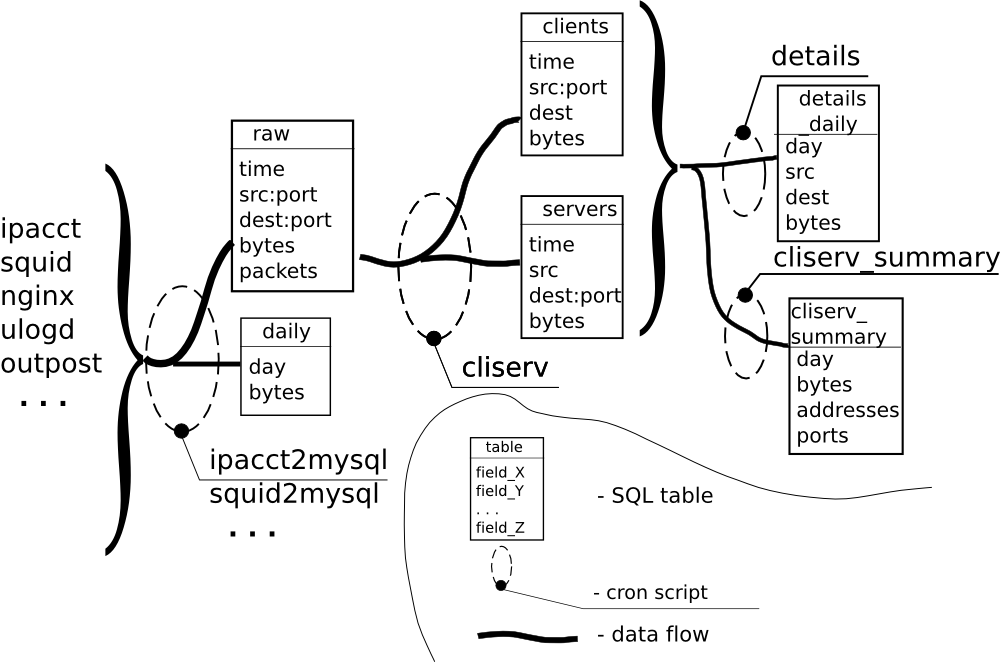
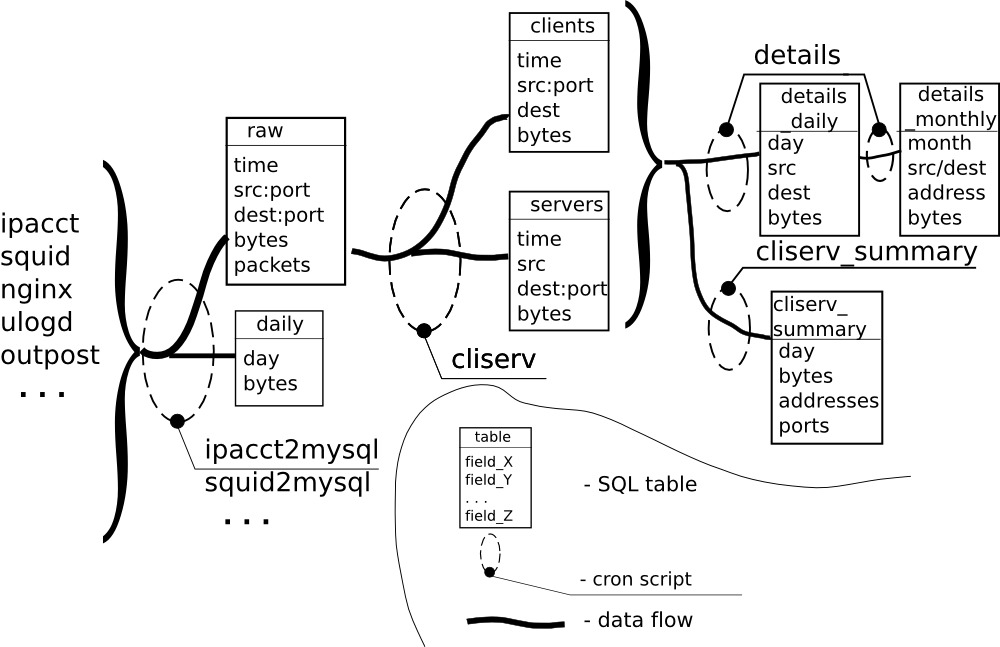
docs

diff --git a/doc/index.html b/doc/index.html
@@ -31,6 +31,7 @@
 <p>It is highly necessary that data to be processed sequentially from raw to clients and servers data before the next such a process is launched again so it is where you must find a balance between data collection speed and data integrity. I find it useful to launch cliserv script every few minutes, but YMMV.</p>
 <p>It worths to note that besides unmentioning about the unneeded port number on the clients and servers data, the timestamp field shows the last time when the particular client was using the particular server. So it may be useful as a source for the various daytime charts about particular clients and servers utilization.</p>
 <p>After the clients and servers tables are fullfilled, the data are aggregated into the details_daily table with no sense about ports numbers, i. e. about relationship between the particular hosts. This was useful for LAN routing/NAT service users monitoring but still helps for one host only.</p>
+<p>The details_monthly has almost the same prupose as the details_daily, except that it keeps data about every particular IP addresses one per a row and keeps the data summarized for the whole months. The src/dest field is an information about the particular data flow direction.</p>
 <p>As for cliserv_summary: it is an optional data to make the shoulders on a demo &laquo;t-shirt&raquo; layout for a quick reference on what's up. It is highly advised to enhance this feature to suit your particular needs.</p>
 <p>The 'daily' table contains the data about the daily traffic amount and is updated every minute.</p>
 <h2 align='center'>FCGI::Spawn</h2>
@@ -58,7 +59,7 @@ One may notice things like Net::Interface on a Config.pm. This is to adopt to th
 <li>_10min.sh, edited same way, executed several times less frequently than the _min;
 	<ul>This includes:
 	<li>cliserv to aggregate daily traffic as a client- or server-originated, keeping its last appearance time of day;</li>
-	<li>details to aggregate daily traffic at a source-to destination IP address;</li>
+	<li>details to aggregate daily traffic at a source-to destination IP address, and monthly traffic per every IP address and flow direction;</li>
 	<li>cliserv_summary and probably more to make the shoulders on a CGI's &laquo;t-shirt&raquo;.</li>
 	</ul>
 </li>
@@ -66,6 +67,12 @@ One may notice things like Net::Interface on a Config.pm. This is to adopt to th
 </ul>
 </p>
 <p>Config.pm variables are mostly self-explanatory; typically you can grep the sources to know the what are they all about.</p>
+<h3>More on geolocation</h3>
+<p>Skybill's CGI frontend detects language detection based on the geolocation.</p>
+<p>The common practice for country location is application-based. This is not the case for the Skybill: it use the COUNTRY_CODE environment variable to choose the appropriate xsl template. Such a variable is obvious to be set by the web server itself ( like the fastcgi_param on the Nginx.conf ) and is my proposal as a convinient standard way to pass the geo data from web server to the application.</p>
+<p>There are lots of such a geolocation data sources including free ones, to be used for your web server. You may change the CGI program anyway if you should prefer old way: to take geo data from your database in an application.</p>
+<h2>Resources</h2>
+Project's Git repository is at <a href='http://github.com/petr999/skybill'>GitHub</a> and the <a href=''>latest development version</a> is available via SourceForge's Git <a href='http://skybill.git.sourceforge.net/git/gitweb-index.cgi'>repository</a>, too.
 <h2 align='center'>Acknowledgements</h2>
 <p>Thanks to: Skyriver Studios for test case and Roman Palagin for ipacctd.</p>
 <p>Bugs and TODOs are tracked at Peter Vereshagin's <a href='http://bugs.vereshagin.org/buglist.cgi?query_format=advanced;product=Skybill%20traffic%20accounting%2Fnetwork%20monitoring'>Bugzilla</a>. License is <a href='http://www.freebsd.org/copyright/freebsd-license.html'>BSD</a>.
